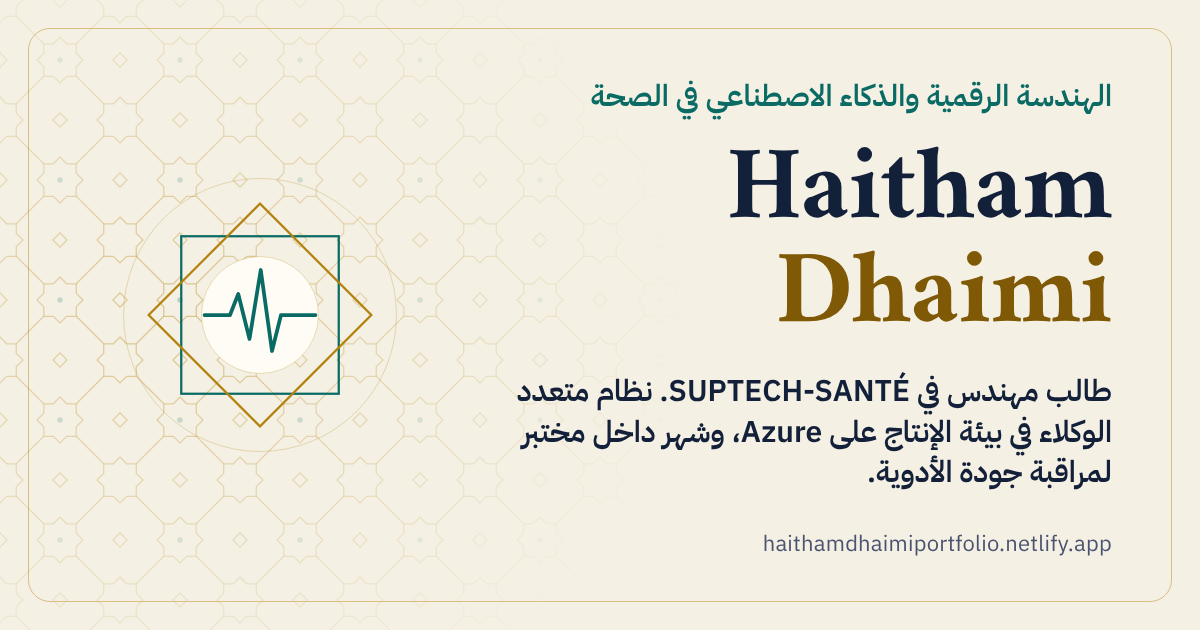
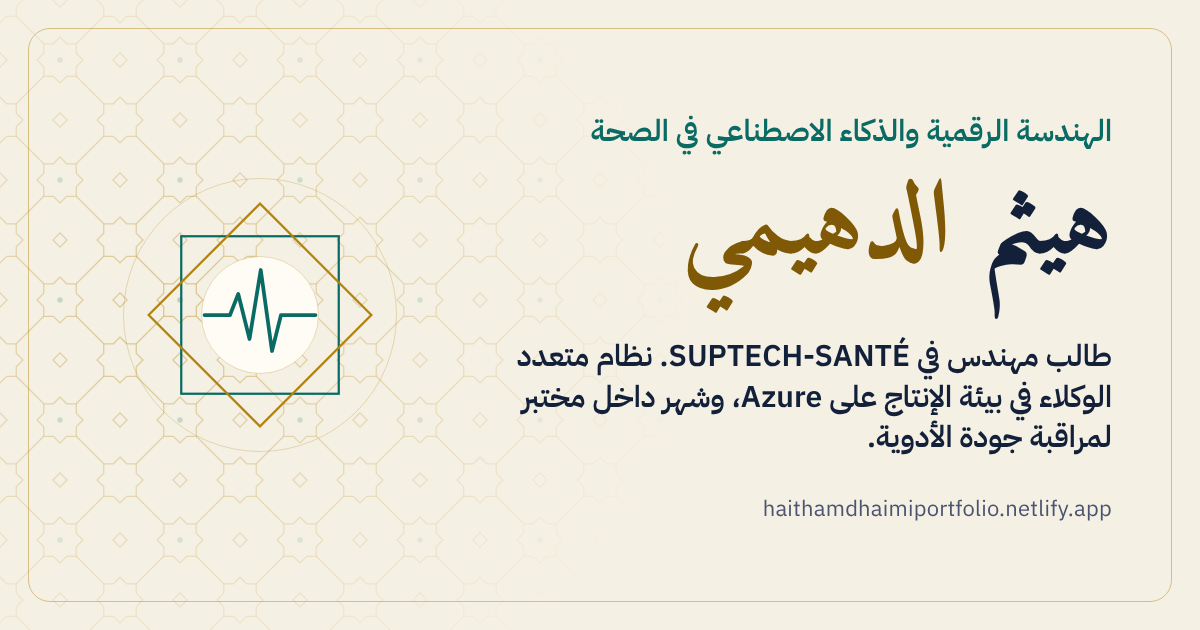
Nom en arabe et projet rage en simple mention
- Page arabe : هيثم الدهيمي en titre, nom latin dessous, image de partage mise à jour
- Variantes arabes du nom ajoutées aux données structurées
- Projet rage : mention courte « en cours », sans lien

Claude-Session: https://claude.ai/code/session_017jxFw1RdUxN8fGk5hJeG8R

Changed region(s): [[0.4933, 0.1206, 0.925, 0.5127], [0.4317, 0.5429, 0.925, 0.8746]]

diff --git a/public/ar/index.html b/public/ar/index.html
@@ -4,8 +4,8 @@
 <meta charset="utf-8">
 <meta name="viewport" content="width=device-width, initial-scale=1">
 <script>(function(){var d=document.documentElement;d.className=d.className.replace('no-js','js');try{var t=localStorage.getItem('hd-theme');if(t==='light'||t==='dark')d.setAttribute('data-theme',t);}catch(e){}})();</script>
-<title>Haitham Dhaimi — طالب مهندس في الذكاء الاصطناعي والصحة الرقمية</title>
-<meta name="description" content="Haitham Dhaimi، طالب مهندس في SUPTECH-SANTÉ (المحمدية، المغرب). نظام متعدد الوكلاء للذكاء الاصطناعي منشور على Azure، وتدريب في مراقبة الجودة الصيدلانية لدى Promopharm (مجموعة Hikma). المشاريع والسيرة الذاتية ووسائل التواصل.">
+<title>هيثم الدهيمي (Haitham Dhaimi) — طالب مهندس في الذكاء الاصطناعي والصحة الرقمية</title>
+<meta name="description" content="هيثم الدهيمي (Haitham Dhaimi)، طالب مهندس في SUPTECH-SANTÉ (المحمدية، المغرب). نظام متعدد الوكلاء للذكاء الاصطناعي منشور على Azure، وتدريب في مراقبة الجودة الصيدلانية لدى Promopharm (مجموعة Hikma). المشاريع والسيرة الذاتية ووسائل التواصل.">
 <meta name="author" content="Haitham Dhaimi">
 <meta name="color-scheme" content="light dark">
 <meta name="theme-color" content="#F5F0E4" media="(prefers-color-scheme: light)">
@@ -17,7 +17,7 @@
 <link rel="alternate" hreflang="x-default" href="https://haithamdhaimiportfolio.netlify.app/">
 <meta property="og:type" content="profile">
 <meta property="og:site_name" content="Haitham Dhaimi">
-<meta property="og:title" content="Haitham Dhaimi — الذكاء الاصطناعي والصحة الرقمية">
+<meta property="og:title" content="هيثم الدهيمي — الذكاء الاصطناعي والصحة الرقمية">
 <meta property="og:description" content="طالب مهندس في SUPTECH-SANTÉ. نظام متعدد الوكلاء في بيئة الإنتاج على Azure، وشهر داخل مختبر لمراقبة جودة الأدوية.">
 <meta property="og:url" content="https://haithamdhaimiportfolio.netlify.app/ar/">
 <meta property="og:locale" content="ar_MA">
@@ -26,11 +26,11 @@
 <meta property="og:image" content="https://haithamdhaimiportfolio.netlify.app/assets/og-ar.png">
 <meta property="og:image:width" content="1200">
 <meta property="og:image:height" content="630">
-<meta property="og:image:alt" content="Haitham Dhaimi — الذكاء الاصطناعي والصحة الرقمية">
+<meta property="og:image:alt" content="هيثم الدهيمي — الذكاء الاصطناعي والصحة الرقمية">
 <meta property="profile:first_name" content="Haitham">
 <meta property="profile:last_name" content="Dhaimi">
 <meta name="twitter:card" content="summary_large_image">
-<meta name="twitter:title" content="Haitham Dhaimi — الذكاء الاصطناعي والصحة الرقمية">
+<meta name="twitter:title" content="هيثم الدهيمي — الذكاء الاصطناعي والصحة الرقمية">
 <meta name="twitter:description" content="طالب مهندس في SUPTECH-SANTÉ. نظام متعدد الوكلاء في بيئة الإنتاج على Azure، وشهر داخل مختبر لمراقبة جودة الأدوية.">
 <meta name="twitter:image" content="https://haithamdhaimiportfolio.netlify.app/assets/og-ar.png">
 <link rel="icon" href="/favicon.ico" sizes="48x48">
@@ -38,8 +38,8 @@
 <link rel="apple-touch-icon" href="/assets/apple-touch-icon.png">
 <link rel="manifest" href="/site.webmanifest">
 <link rel="preload" href="/assets/fonts/ibm-plex-sans-arabic-arabic-400-normal.woff2" as="font" type="font/woff2" crossorigin>
-<link rel="stylesheet" href="/assets/style.css?v=e99040bc90">
-<script type="application/ld+json">{"@context":"https://schema.org","@graph":[{"@type":"ProfilePage","@id":"https://haithamdhaimiportfolio.netlify.app/ar/#page","url":"https://haithamdhaimiportfolio.netlify.app/ar/","name":"Haitham Dhaimi — طالب مهندس في الذكاء الاصطناعي والصحة الرقمية","description":"Haitham Dhaimi، طالب مهندس في SUPTECH-SANTÉ (المحمدية، المغرب). نظام متعدد الوكلاء للذكاء الاصطناعي منشور على Azure، وتدريب في مراقبة الجودة الصيدلانية لدى Promopharm (مجموعة Hikma). المشاريع والسيرة الذاتية ووسائل التواصل.","inLanguage":"ar","dateModified":"2026-10-09","isPartOf":{"@id":"https://haithamdhaimiportfolio.netlify.app/#website"},"mainEntity":{"@id":"https://haithamdhaimiportfolio.netlify.app/#person"}},{"@type":"Person","@id":"https://haithamdhaimiportfolio.netlify.app/#person","name":"Haitham Dhaimi","alternateName":["Haitham DHAIMI","Dhaimi Haitham","DHAIMI Haitham"],"givenName":"Haitham","familyName":"Dhaimi","url":"https://haithamdhaimiportfolio.netlify.app/","image":"https://haithamdhaimiportfolio.netlify.app/assets/og-fr.png","jobTitle":"طالب مهندس في الهندسة الرقمية والذكاء الاصطناعي في الصحة","email":"mailto:dhaimihaitham@gmail.com","address":{"@type":"PostalAddress","addressLocality":"Casablanca","addressCountry":"MA"},"affiliation":{"@type":"CollegeOrUniversity","name":"SUPTECH-SANTÉ","parentOrganization":{"@type":"CollegeOrUniversity","name":"Université Internationale Bleue"},"address":{"@type":"PostalAddress","addressLocality":"Mohammedia","addressCountry":"MA"}},"alumniOf":{"@type":"HighSchool","name":"Lycée Alexandre"},"knowsAbout":["Intelligence artificielle","Systèmes multi-agents","Microsoft AutoGen","Microsoft Azure","Santé numérique","Contrôle qualité pharmaceutique","HPLC","Bonnes pratiques de fabrication (BPF/GMP)","Python","FastAPI","Docker"],"knowsLanguage":["ar","fr","en"],"sameAs":["https://www.linkedin.com/in/haitham-dhaimi-6b894b278","https://github.com/HaithamSD01"]},{"@type":"WebSite","@id":"https://haithamdhaimiportfolio.netlify.app/#website","url":"https://haithamdhaimiportfolio.netlify.app/","name":"Haitham Dhaimi","inLanguage":["fr","en","ar"],"publisher":{"@id":"https://haithamdhaimiportfolio.netlify.app/#person"}}]}</script>
+<link rel="stylesheet" href="/assets/style.css?v=af7f4f8fa1">
+<script type="application/ld+json">{"@context":"https://schema.org","@graph":[{"@type":"ProfilePage","@id":"https://haithamdhaimiportfolio.netlify.app/ar/#page","url":"https://haithamdhaimiportfolio.netlify.app/ar/","name":"هيثم الدهيمي (Haitham Dhaimi) — طالب مهندس في الذكاء الاصطناعي والصحة الرقمية","description":"هيثم الدهيمي (Haitham Dhaimi)، طالب مهندس في SUPTECH-SANTÉ (المحمدية، المغرب). نظام متعدد الوكلاء للذكاء الاصطناعي منشور على Azure، وتدريب في مراقبة الجودة الصيدلانية لدى Promopharm (مجموعة Hikma). المشاريع والسيرة الذاتية ووسائل التواصل.","inLanguage":"ar","dateModified":"2026-10-09","isPartOf":{"@id":"https://haithamdhaimiportfolio.netlify.app/#website"},"mainEntity":{"@id":"https://haithamdhaimiportfolio.netlify.app/#person"}},{"@type":"Person","@id":"https://haithamdhaimiportfolio.netlify.app/#person","name":"Haitham Dhaimi","alternateName":["Haitham DHAIMI","Dhaimi Haitham","DHAIMI Haitham","هيثم الدهيمي","الدهيمي هيثم"],"givenName":"Haitham","familyName":"Dhaimi","url":"https://haithamdhaimiportfolio.netlify.app/","image":"https://haithamdhaimiportfolio.netlify.app/assets/og-fr.png","jobTitle":"طالب مهندس في الهندسة الرقمية والذكاء الاصطناعي في الصحة","email":"mailto:dhaimihaitham@gmail.com","address":{"@type":"PostalAddress","addressLocality":"Casablanca","addressCountry":"MA"},"affiliation":{"@type":"CollegeOrUniversity","name":"SUPTECH-SANTÉ","parentOrganization":{"@type":"CollegeOrUniversity","name":"Université Internationale Bleue"},"address":{"@type":"PostalAddress","addressLocality":"Mohammedia","addressCountry":"MA"}},"alumniOf":{"@type":"HighSchool","name":"Lycée Alexandre"},"knowsAbout":["Intelligence artificielle","Systèmes multi-agents","Microsoft AutoGen","Microsoft Azure","Santé numérique","Contrôle qualité pharmaceutique","HPLC","Bonnes pratiques de fabrication (BPF/GMP)","Python","FastAPI","Docker"],"knowsLanguage":["ar","fr","en"],"sameAs":["https://www.linkedin.com/in/haitham-dhaimi-6b894b278","https://github.com/HaithamSD01"]},{"@type":"WebSite","@id":"https://haithamdhaimiportfolio.netlify.app/#website","url":"https://haithamdhaimiportfolio.netlify.app/","name":"Haitham Dhaimi","inLanguage":["fr","en","ar"],"publisher":{"@id":"https://haithamdhaimiportfolio.netlify.app/#person"}}]}</script>
 </head>
 <body>
 <a class="skip-link" href="#main">الانتقال إلى المحتوى</a>
@@ -100,7 +100,8 @@
   <div class="wrap hero-grid">
     <div class="hero-text">
       <p class="hero-kicker">الهندسة الرقمية والذكاء الاصطناعي في الصحة</p>
-      <h1 id="hero-name" class="hero-name" lang="en"><span>Haitham</span> <span class="hero-last">Dhaimi</span></h1>
+      <h1 id="hero-name" class="hero-name"><span>هيثم</span> <span class="hero-last">الدهيمي</span></h1>
+      <p class="hero-latin" lang="en" dir="ltr">Haitham Dhaimi</p>
       <p class="hero-lead">أدرس الهندسة الرقمية والذكاء الاصطناعي المطبَّقَين على الصحة في <strong>SUPTECH-SANTÉ</strong> بالمحمدية. هذا الصيف، نشرتُ <strong>نظامًا متعدد الوكلاء في بيئة الإنتاج على Azure</strong>، وقضيت شهرًا داخل <strong>مختبر لمراقبة جودة الأدوية</strong>. ما يهمني: بناء أدوات رقمية يمكن لبيئة صحية خاضعة للتنظيم أن تعتمدها فعلًا.</p>
       <p class="hero-avail"><span class="dot" aria-hidden="true"></span>منفتح على فرص التدريب والمشاريع في الصحة الرقمية والذكاء الاصطناعي والحوسبة السحابية.</p>
       <div class="hero-actions">
@@ -306,11 +307,11 @@
     <ul class="card-grid">
       
       <li class="card">
-        <p class="card-tag">الصحة العامة، أداة ويب</p>
+        <p class="card-tag">قيد الإنجاز</p>
         <h3>السعار: تصرف بسرعة</h3>
-        <p class="card-date">شتنبر 2026</p>
-        <p>أداة توعوية بالعربية والدارجة والفرنسية، موجهة لمن تعرّض لتوّه لعضة أو خدش من حيوان: الإسعاف الأولي، وتقييم الخطر في سؤالين، ومراكز التلقيح في الدار البيضاء والمحمدية والجهة مع مصدر كل عنوان، وحساب مواعيد الجرعات. هي أداة للمعلومة، ولا تعوّض الطبيب.</p>
-        <p class="card-link"><a href="https://github.com/HaithamSD01/rabies-alert" rel="noopener" target="_blank">الشيفرة على GitHub<span class="sr-only"> (تُفتح في نافذة جديدة)</span></a></p>
+        <p class="card-date">2026</p>
+        <p>أداة توعوية حول داء السعار بالعربية والدارجة والفرنسية: ما يجب فعله مباشرة بعد العضة، وأين يمكن تلقي اللقاح. المشروع قيد التطوير.</p>
+        
       </li>
       
       <li class="card">

diff --git a/public/index.html b/public/index.html
@@ -38,8 +38,8 @@
 <link rel="apple-touch-icon" href="/assets/apple-touch-icon.png">
 <link rel="manifest" href="/site.webmanifest">
 <link rel="preload" href="/assets/fonts/ibm-plex-sans-latin-400-normal.woff2" as="font" type="font/woff2" crossorigin>
-<link rel="stylesheet" href="/assets/style.css?v=e99040bc90">
-<script type="application/ld+json">{"@context":"https://schema.org","@graph":[{"@type":"ProfilePage","@id":"https://haithamdhaimiportfolio.netlify.app/#page","url":"https://haithamdhaimiportfolio.netlify.app/","name":"Haitham Dhaimi — Élève ingénieur en IA et santé numérique","description":"Haitham Dhaimi, élève ingénieur à SUPTECH-SANTÉ (Mohammedia, Maroc). Système multi-agents IA déployé sur Azure, stage en contrôle qualité pharmaceutique chez Promopharm (groupe Hikma). Projets, CV et contact.","inLanguage":"fr","dateModified":"2026-10-09","isPartOf":{"@id":"https://haithamdhaimiportfolio.netlify.app/#website"},"mainEntity":{"@id":"https://haithamdhaimiportfolio.netlify.app/#person"}},{"@type":"Person","@id":"https://haithamdhaimiportfolio.netlify.app/#person","name":"Haitham Dhaimi","alternateName":["Haitham DHAIMI","Dhaimi Haitham","DHAIMI Haitham"],"givenName":"Haitham","familyName":"Dhaimi","url":"https://haithamdhaimiportfolio.netlify.app/","image":"https://haithamdhaimiportfolio.netlify.app/assets/og-fr.png","jobTitle":"Élève ingénieur en ingénierie digitale et IA en santé","email":"mailto:dhaimihaitham@gmail.com","address":{"@type":"PostalAddress","addressLocality":"Casablanca","addressCountry":"MA"},"affiliation":{"@type":"CollegeOrUniversity","name":"SUPTECH-SANTÉ","parentOrganization":{"@type":"CollegeOrUniversity","name":"Université Internationale Bleue"},"address":{"@type":"PostalAddress","addressLocality":"Mohammedia","addressCountry":"MA"}},"alumniOf":{"@type":"HighSchool","name":"Lycée Alexandre"},"knowsAbout":["Intelligence artificielle","Systèmes multi-agents","Microsoft AutoGen","Microsoft Azure","Santé numérique","Contrôle qualité pharmaceutique","HPLC","Bonnes pratiques de fabrication (BPF/GMP)","Python","FastAPI","Docker"],"knowsLanguage":["ar","fr","en"],"sameAs":["https://www.linkedin.com/in/haitham-dhaimi-6b894b278","https://github.com/HaithamSD01"]},{"@type":"WebSite","@id":"https://haithamdhaimiportfolio.netlify.app/#website","url":"https://haithamdhaimiportfolio.netlify.app/","name":"Haitham Dhaimi","inLanguage":["fr","en","ar"],"publisher":{"@id":"https://haithamdhaimiportfolio.netlify.app/#person"}}]}</script>
+<link rel="stylesheet" href="/assets/style.css?v=af7f4f8fa1">
+<script type="application/ld+json">{"@context":"https://schema.org","@graph":[{"@type":"ProfilePage","@id":"https://haithamdhaimiportfolio.netlify.app/#page","url":"https://haithamdhaimiportfolio.netlify.app/","name":"Haitham Dhaimi — Élève ingénieur en IA et santé numérique","description":"Haitham Dhaimi, élève ingénieur à SUPTECH-SANTÉ (Mohammedia, Maroc). Système multi-agents IA déployé sur Azure, stage en contrôle qualité pharmaceutique chez Promopharm (groupe Hikma). Projets, CV et contact.","inLanguage":"fr","dateModified":"2026-10-09","isPartOf":{"@id":"https://haithamdhaimiportfolio.netlify.app/#website"},"mainEntity":{"@id":"https://haithamdhaimiportfolio.netlify.app/#person"}},{"@type":"Person","@id":"https://haithamdhaimiportfolio.netlify.app/#person","name":"Haitham Dhaimi","alternateName":["Haitham DHAIMI","Dhaimi Haitham","DHAIMI Haitham","هيثم الدهيمي","الدهيمي هيثم"],"givenName":"Haitham","familyName":"Dhaimi","url":"https://haithamdhaimiportfolio.netlify.app/","image":"https://haithamdhaimiportfolio.netlify.app/assets/og-fr.png","jobTitle":"Élève ingénieur en ingénierie digitale et IA en santé","email":"mailto:dhaimihaitham@gmail.com","address":{"@type":"PostalAddress","addressLocality":"Casablanca","addressCountry":"MA"},"affiliation":{"@type":"CollegeOrUniversity","name":"SUPTECH-SANTÉ","parentOrganization":{"@type":"CollegeOrUniversity","name":"Université Internationale Bleue"},"address":{"@type":"PostalAddress","addressLocality":"Mohammedia","addressCountry":"MA"}},"alumniOf":{"@type":"HighSchool","name":"Lycée Alexandre"},"knowsAbout":["Intelligence artificielle","Systèmes multi-agents","Microsoft AutoGen","Microsoft Azure","Santé numérique","Contrôle qualité pharmaceutique","HPLC","Bonnes pratiques de fabrication (BPF/GMP)","Python","FastAPI","Docker"],"knowsLanguage":["ar","fr","en"],"sameAs":["https://www.linkedin.com/in/haitham-dhaimi-6b894b278","https://github.com/HaithamSD01"]},{"@type":"WebSite","@id":"https://haithamdhaimiportfolio.netlify.app/#website","url":"https://haithamdhaimiportfolio.netlify.app/","name":"Haitham Dhaimi","inLanguage":["fr","en","ar"],"publisher":{"@id":"https://haithamdhaimiportfolio.netlify.app/#person"}}]}</script>
 </head>
 <body>
 <a class="skip-link" href="#main">Aller au contenu</a>
@@ -313,11 +313,11 @@
     <ul class="card-grid">
       
       <li class="card">
-        <p class="card-tag">Santé publique, outil web</p>
+        <p class="card-tag">En cours</p>
         <h3>Rage : agissez vite</h3>
-        <p class="card-date">Septembre 2026</p>
-        <p>Un outil de sensibilisation en arabe, en darija et en français, pensé pour quelqu&#39;un qui vient d&#39;être mordu ou griffé par un animal : premier geste, évaluation du risque en deux questions, centres de vaccination à Casablanca, Mohammedia et dans la région avec la source de chaque adresse, et calcul des dates de doses. Il informe, il ne remplace pas un médecin.</p>
-        <p class="card-link"><a href="https://github.com/HaithamSD01/rabies-alert" rel="noopener" target="_blank">Code sur GitHub<span class="sr-only"> (nouvel onglet)</span></a></p>
+        <p class="card-date">2026</p>
+        <p>Un outil de sensibilisation à la rage, en arabe, en darija et en français : quoi faire juste après une morsure et où se faire vacciner. Projet en cours de développement.</p>
+        
       </li>
       
       <li class="card">

diff --git a/public/en/index.html b/public/en/index.html
@@ -38,8 +38,8 @@
 <link rel="apple-touch-icon" href="/assets/apple-touch-icon.png">
 <link rel="manifest" href="/site.webmanifest">
 <link rel="preload" href="/assets/fonts/ibm-plex-sans-latin-400-normal.woff2" as="font" type="font/woff2" crossorigin>
-<link rel="stylesheet" href="/assets/style.css?v=e99040bc90">
-<script type="application/ld+json">{"@context":"https://schema.org","@graph":[{"@type":"ProfilePage","@id":"https://haithamdhaimiportfolio.netlify.app/en/#page","url":"https://haithamdhaimiportfolio.netlify.app/en/","name":"Haitham Dhaimi — Engineering student in AI and digital health","description":"Haitham Dhaimi, engineering student at SUPTECH-SANTÉ (Mohammedia, Morocco). A multi-agent AI system shipped to production on Azure, and a pharmaceutical quality-control internship at Promopharm (Hikma group). Projects, CV and contact.","inLanguage":"en","dateModified":"2026-10-09","isPartOf":{"@id":"https://haithamdhaimiportfolio.netlify.app/#website"},"mainEntity":{"@id":"https://haithamdhaimiportfolio.netlify.app/#person"}},{"@type":"Person","@id":"https://haithamdhaimiportfolio.netlify.app/#person","name":"Haitham Dhaimi","alternateName":["Haitham DHAIMI","Dhaimi Haitham","DHAIMI Haitham"],"givenName":"Haitham","familyName":"Dhaimi","url":"https://haithamdhaimiportfolio.netlify.app/","image":"https://haithamdhaimiportfolio.netlify.app/assets/og-fr.png","jobTitle":"Engineering student in digital engineering and AI for healthcare","email":"mailto:dhaimihaitham@gmail.com","address":{"@type":"PostalAddress","addressLocality":"Casablanca","addressCountry":"MA"},"affiliation":{"@type":"CollegeOrUniversity","name":"SUPTECH-SANTÉ","parentOrganization":{"@type":"CollegeOrUniversity","name":"Université Internationale Bleue"},"address":{"@type":"PostalAddress","addressLocality":"Mohammedia","addressCountry":"MA"}},"alumniOf":{"@type":"HighSchool","name":"Lycée Alexandre"},"knowsAbout":["Intelligence artificielle","Systèmes multi-agents","Microsoft AutoGen","Microsoft Azure","Santé numérique","Contrôle qualité pharmaceutique","HPLC","Bonnes pratiques de fabrication (BPF/GMP)","Python","FastAPI","Docker"],"knowsLanguage":["ar","fr","en"],"sameAs":["https://www.linkedin.com/in/haitham-dhaimi-6b894b278","https://github.com/HaithamSD01"]},{"@type":"WebSite","@id":"https://haithamdhaimiportfolio.netlify.app/#website","url":"https://haithamdhaimiportfolio.netlify.app/","name":"Haitham Dhaimi","inLanguage":["fr","en","ar"],"publisher":{"@id":"https://haithamdhaimiportfolio.netlify.app/#person"}}]}</script>
+<link rel="stylesheet" href="/assets/style.css?v=af7f4f8fa1">
+<script type="application/ld+json">{"@context":"https://schema.org","@graph":[{"@type":"ProfilePage","@id":"https://haithamdhaimiportfolio.netlify.app/en/#page","url":"https://haithamdhaimiportfolio.netlify.app/en/","name":"Haitham Dhaimi — Engineering student in AI and digital health","description":"Haitham Dhaimi, engineering student at SUPTECH-SANTÉ (Mohammedia, Morocco). A multi-agent AI system shipped to production on Azure, and a pharmaceutical quality-control internship at Promopharm (Hikma group). Projects, CV and contact.","inLanguage":"en","dateModified":"2026-10-09","isPartOf":{"@id":"https://haithamdhaimiportfolio.netlify.app/#website"},"mainEntity":{"@id":"https://haithamdhaimiportfolio.netlify.app/#person"}},{"@type":"Person","@id":"https://haithamdhaimiportfolio.netlify.app/#person","name":"Haitham Dhaimi","alternateName":["Haitham DHAIMI","Dhaimi Haitham","DHAIMI Haitham","هيثم الدهيمي","الدهيمي هيثم"],"givenName":"Haitham","familyName":"Dhaimi","url":"https://haithamdhaimiportfolio.netlify.app/","image":"https://haithamdhaimiportfolio.netlify.app/assets/og-fr.png","jobTitle":"Engineering student in digital engineering and AI for healthcare","email":"mailto:dhaimihaitham@gmail.com","address":{"@type":"PostalAddress","addressLocality":"Casablanca","addressCountry":"MA"},"affiliation":{"@type":"CollegeOrUniversity","name":"SUPTECH-SANTÉ","parentOrganization":{"@type":"CollegeOrUniversity","name":"Université Internationale Bleue"},"address":{"@type":"PostalAddress","addressLocality":"Mohammedia","addressCountry":"MA"}},"alumniOf":{"@type":"HighSchool","name":"Lycée Alexandre"},"knowsAbout":["Intelligence artificielle","Systèmes multi-agents","Microsoft AutoGen","Microsoft Azure","Santé numérique","Contrôle qualité pharmaceutique","HPLC","Bonnes pratiques de fabrication (BPF/GMP)","Python","FastAPI","Docker"],"knowsLanguage":["ar","fr","en"],"sameAs":["https://www.linkedin.com/in/haitham-dhaimi-6b894b278","https://github.com/HaithamSD01"]},{"@type":"WebSite","@id":"https://haithamdhaimiportfolio.netlify.app/#website","url":"https://haithamdhaimiportfolio.netlify.app/","name":"Haitham Dhaimi","inLanguage":["fr","en","ar"],"publisher":{"@id":"https://haithamdhaimiportfolio.netlify.app/#person"}}]}</script>
 </head>
 <body>
 <a class="skip-link" href="#main">Skip to content</a>
@@ -313,11 +313,11 @@
     <ul class="card-grid">
       
       <li class="card">
-        <p class="card-tag">Public health, web tool</p>
+        <p class="card-tag">In progress</p>
         <h3>Rabies: act fast</h3>
-        <p class="card-date">September 2026</p>
-        <p>An awareness tool in Arabic, Moroccan Darija and French for someone who has just been bitten or scratched by an animal: first aid, a two-question risk check, vaccination centres in Casablanca, Mohammedia and the surrounding region with the source of each address, and a dose-date calculator. It informs; it does not replace a doctor.</p>
-        <p class="card-link"><a href="https://github.com/HaithamSD01/rabies-alert" rel="noopener" target="_blank">Code on GitHub<span class="sr-only"> (opens in a new tab)</span></a></p>
+        <p class="card-date">2026</p>
+        <p>A rabies awareness tool in Arabic, Moroccan Darija and French: what to do right after a bite, and where to get vaccinated. Still in development.</p>
+        
       </li>
       
       <li class="card">

diff --git a/src/templates/page.html b/src/templates/page.html
@@ -102,7 +102,8 @@
   <div class="wrap hero-grid">
     <div class="hero-text">
       <p class="hero-kicker">{{ c.hero.kicker }}</p>
-      <h1 id="hero-name" class="hero-name" lang="en"><span>Haitham</span> <span class="hero-last">Dhaimi</span></h1>
+      {% if c.hero.name_first is defined %}<h1 id="hero-name" class="hero-name"><span>{{ c.hero.name_first }}</span> <span class="hero-last">{{ c.hero.name_last }}</span></h1>
+      <p class="hero-latin" lang="en" dir="ltr">{{ c.hero.name_latin }}</p>{% else %}<h1 id="hero-name" class="hero-name" lang="en"><span>Haitham</span> <span class="hero-last">Dhaimi</span></h1>{% endif %}
       <p class="hero-lead">{{ c.hero.lead | safe }}</p>
       <p class="hero-avail"><span class="dot" aria-hidden="true"></span>{{ c.hero.availability }}</p>
       <div class="hero-actions">

diff --git a/public/assets/style.css b/public/assets/style.css
@@ -127,6 +127,9 @@ abbr{text-decoration:none}
 .hero-kicker{color:var(--accent);font-weight:600;font-size:.98rem;margin-block-end:.9rem}
 .hero-name{font-size:clamp(2.9rem,7.5vw,5.2rem);line-height:1;letter-spacing:-.01em;margin-block-end:1.4rem}
 .hero-last{color:var(--gold-text)}
+[dir="rtl"] .hero-name{line-height:1.3}
+.hero-latin{margin-block:-.6rem 1.3rem;color:var(--muted);font-size:1.05rem;font-weight:600}
+[dir="rtl"] .hero-latin{text-align:right}
 .hero-lead{max-width:60ch;font-size:clamp(1.05rem,1.6vw,1.18rem);color:var(--text)}
 .hero-lead strong{font-weight:600}
 .hero-avail{display:flex;align-items:center;gap:.6rem;margin-block:1.25rem 1.75rem;color:var(--muted);font-size:.97rem}

diff --git a/src/assets/style.css b/src/assets/style.css
@@ -127,6 +127,9 @@ abbr{text-decoration:none}
 .hero-kicker{color:var(--accent);font-weight:600;font-size:.98rem;margin-block-end:.9rem}
 .hero-name{font-size:clamp(2.9rem,7.5vw,5.2rem);line-height:1;letter-spacing:-.01em;margin-block-end:1.4rem}
 .hero-last{color:var(--gold-text)}
+[dir="rtl"] .hero-name{line-height:1.3}
+.hero-latin{margin-block:-.6rem 1.3rem;color:var(--muted);font-size:1.05rem;font-weight:600}
+[dir="rtl"] .hero-latin{text-align:right}
 .hero-lead{max-width:60ch;font-size:clamp(1.05rem,1.6vw,1.18rem);color:var(--text)}
 .hero-lead strong{font-weight:600}
 .hero-avail{display:flex;align-items:center;gap:.6rem;margin-block:1.25rem 1.75rem;color:var(--muted);font-size:.97rem}

diff --git a/public/404.html b/public/404.html
@@ -9,7 +9,7 @@
 <meta name="color-scheme" content="light dark">
 <link rel="icon" href="/favicon.ico" sizes="48x48">
 <link rel="icon" href="/assets/favicon.svg" type="image/svg+xml">
-<link rel="stylesheet" href="/assets/style.css?v=e99040bc90">
+<link rel="stylesheet" href="/assets/style.css?v=af7f4f8fa1">
 </head>
 <body>
 <main class="nf wrap">

diff --git a/tools/og.py b/tools/og.py
@@ -22,7 +22,8 @@ body{{background:#F5F0E4;color:#13203A;font-family:"Plex",sans-serif;position:re
 .frame{{position:absolute;inset:28px;border:1.5px solid rgba(179,130,15,.45);border-radius:22px}}
 .content{{position:absolute;inset-block:0;inset-inline-start:88px;width:690px;display:flex;flex-direction:column;justify-content:center;gap:22px}}
 .kicker{{color:#0A6B64;font-weight:600;font-size:{kicker_size}px}}
-h1{{font-family:"Amiri",serif;font-size:104px;line-height:1;font-weight:700}}
+@font-face{{font-family:"Amiri";font-weight:700;src:url("{fonts}/amiri-arabic-700-normal.woff2");unicode-range:U+0600-06FF,U+FB50-FDFF,U+FE70-FEFF}}
+h1{{font-family:"Amiri",serif;font-size:104px;line-height:1;padding-block-end:{h1_lh}px;font-weight:700}}
 h1 span{{color:#7F5905}}
 .title{{font-size:{title_size}px;line-height:1.35;font-weight:600;max-width:640px}}
 .url{{align-self:flex-start;margin-block-start:14px;font-size:22px;color:#4A5470;direction:ltr;unicode-bidi:isolate;letter-spacing:.01em}}
@@ -31,7 +32,7 @@ h1 span{{color:#7F5905}}
 <div class="pattern"></div><div class="frame"></div>
 <div class="content">
   <p class="kicker">{kicker}</p>
-  <h1 lang="en">Haitham <span>Dhaimi</span></h1>
+  <h1{name_lang}>{first} <span>{last}</span></h1>
   <p class="title">{title}</p>
   <p class="url">{url}</p>
 </div>
@@ -63,6 +64,10 @@ def make_og_images(site, pages, out: Path):
                 title=html.escape(c["meta"]["og_description"]),
                 url=html.escape(url),
                 kicker_size=30 if rtl else 26,
+                name_lang="" if "name_first" in c["hero"] else ' lang="en"',
+                first=html.escape(c["hero"].get("name_first", "Haitham")),
+                last=html.escape(c["hero"].get("name_last", "Dhaimi")),
+                h1_lh="34" if rtl else "0",
                 title_size=30 if rtl else 28,
             )
             tmp = out / f"_og_{code}.html"
